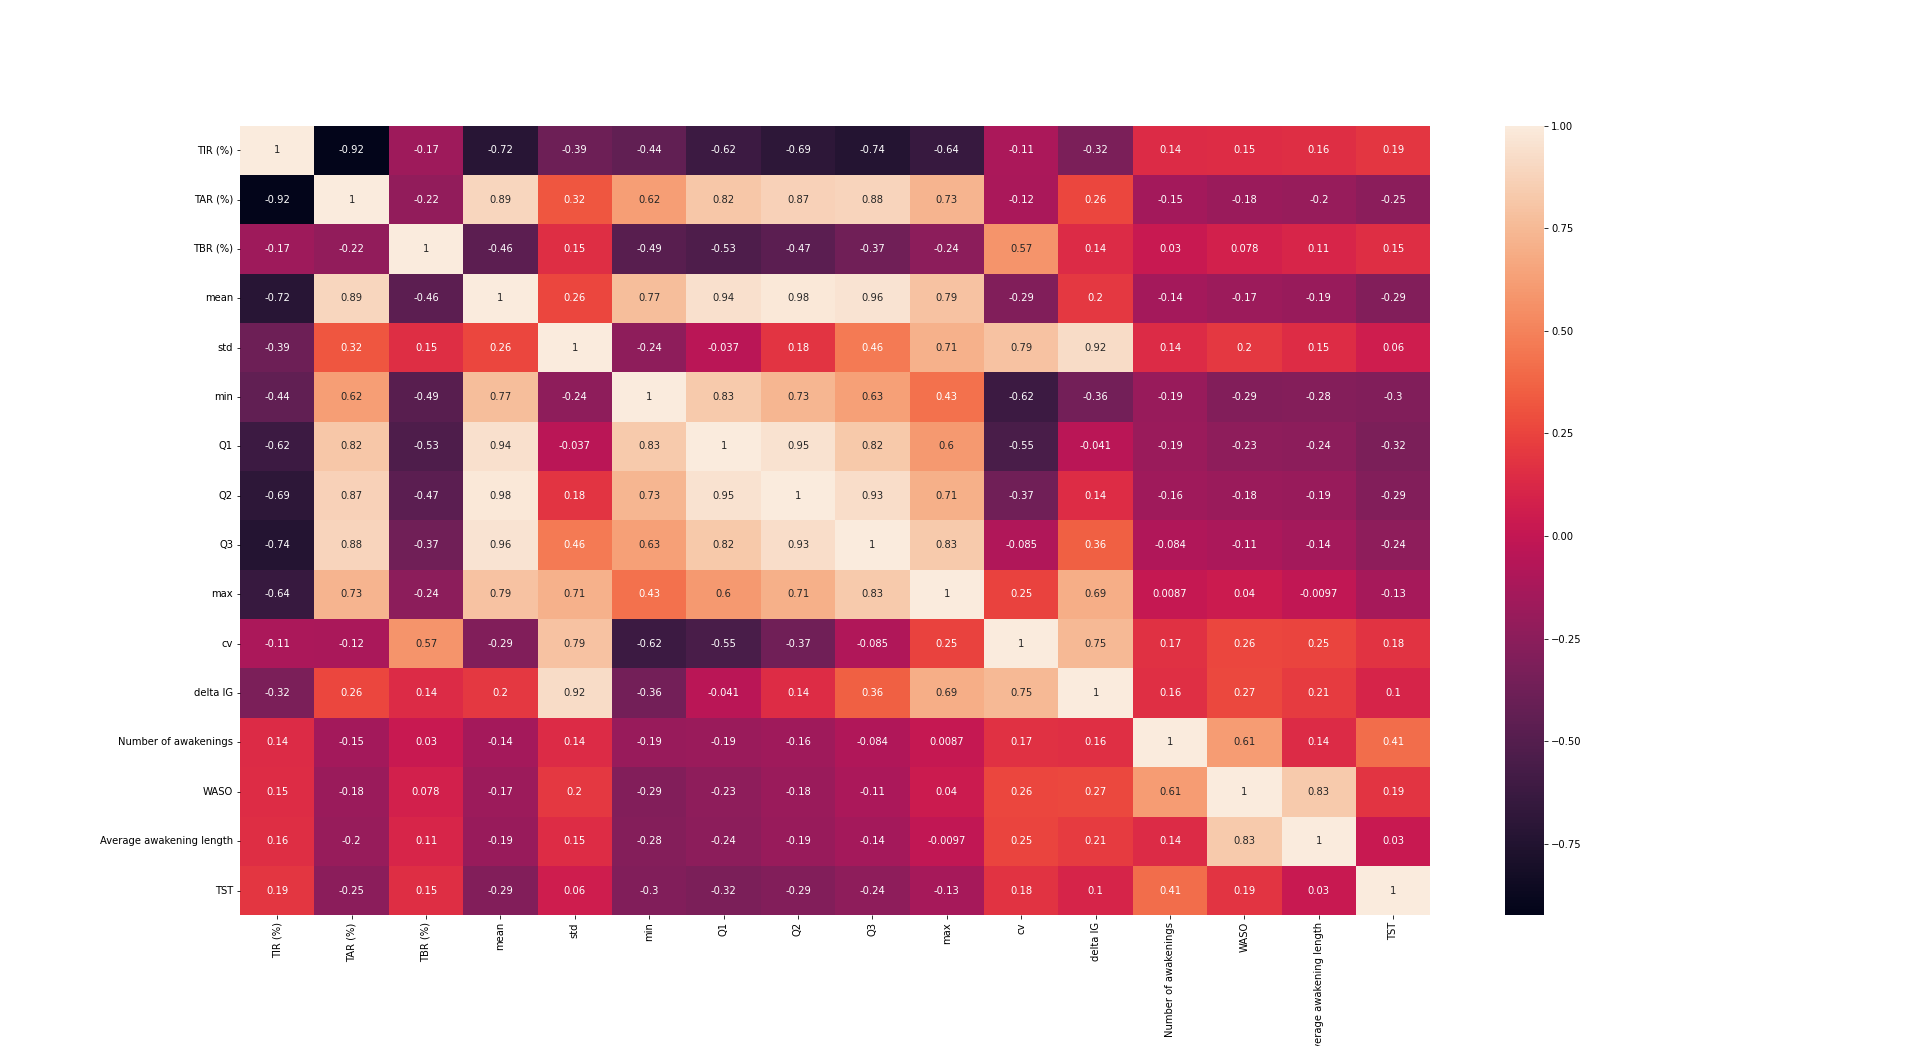
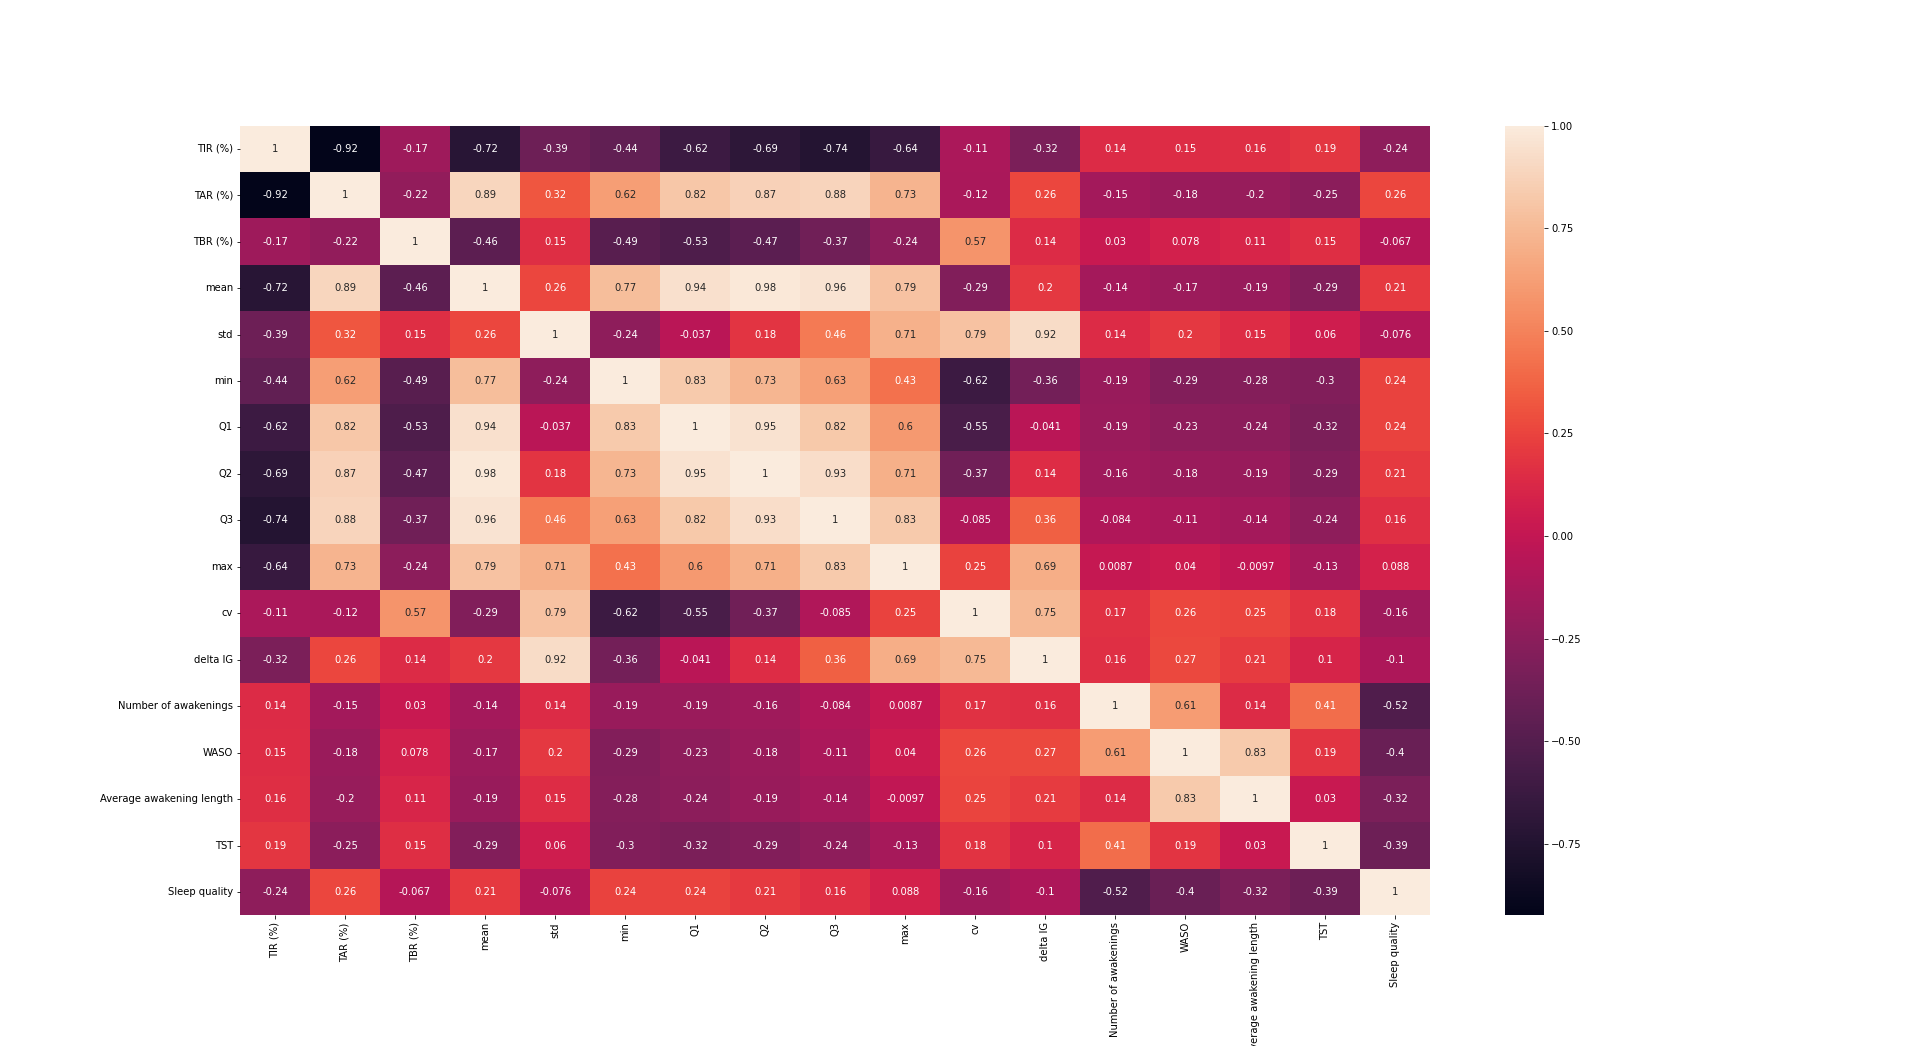
Plot

Changed region(s): [[0.0625, 0.1224, 0.75, 0.9178], [0.0625, 0.7036, 0.125, 0.7648]]

diff --git a/CorrelationMatrix.py b/CorrelationMatrix.py
@@ -23,6 +23,10 @@ epoch_file_path = os.path.join(base_dir+epoch_file)
 # Read the cgm and epoch data
 cgm_data = pd.read_csv(cgm_file_path)
 epoch_data = pd.read_csv(epoch_file_path)
+epoch_data.replace('Very bad sleep', 0, inplace=True)
+epoch_data.replace('Fairly bad sleep', 1, inplace=True)
+epoch_data.replace('Fairly good sleep', 2, inplace=True)
+epoch_data.replace('Very good sleep', 3, inplace=True)
 
 data = pd.merge(cgm_data, epoch_data, on=["In Bed DateTime", "Out Bed DateTime"])
 
@@ -35,6 +39,6 @@ plt.get_current_fig_manager().full_screen_toggle()
 
 
 # Save plot 
-plt.savefig("H:\GitHub\Bachelor\Plots\corrMatrix_MYD.png", format="png")
+plt.savefig("H:\GitHub\Bachelor\Plots\corrMatrixMYD.png", format="png")
 
 plt.show()
